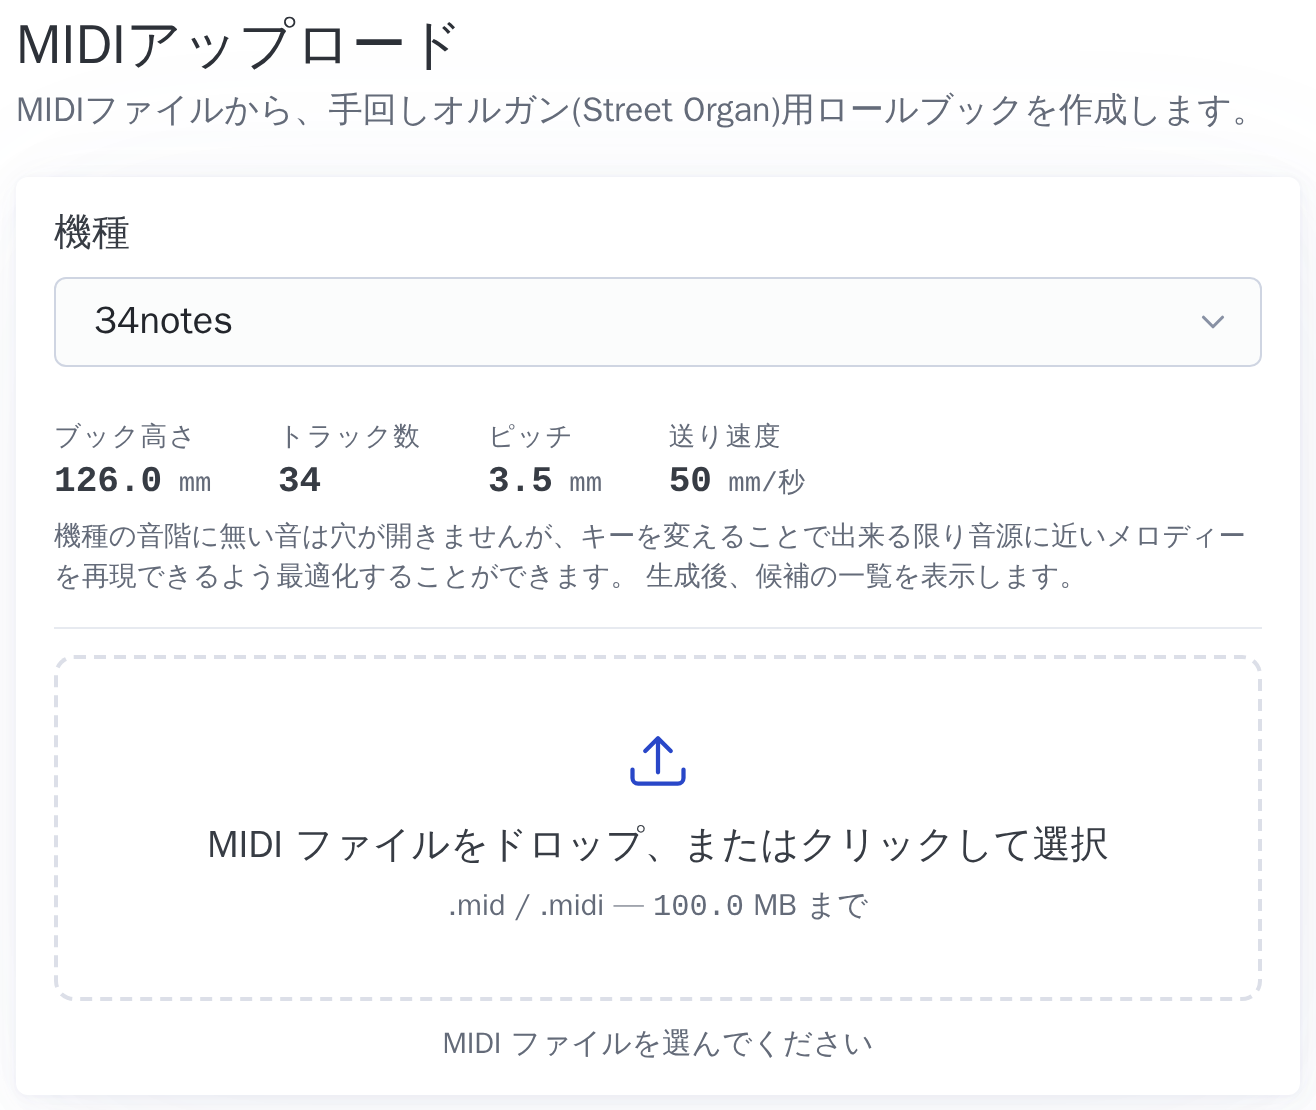
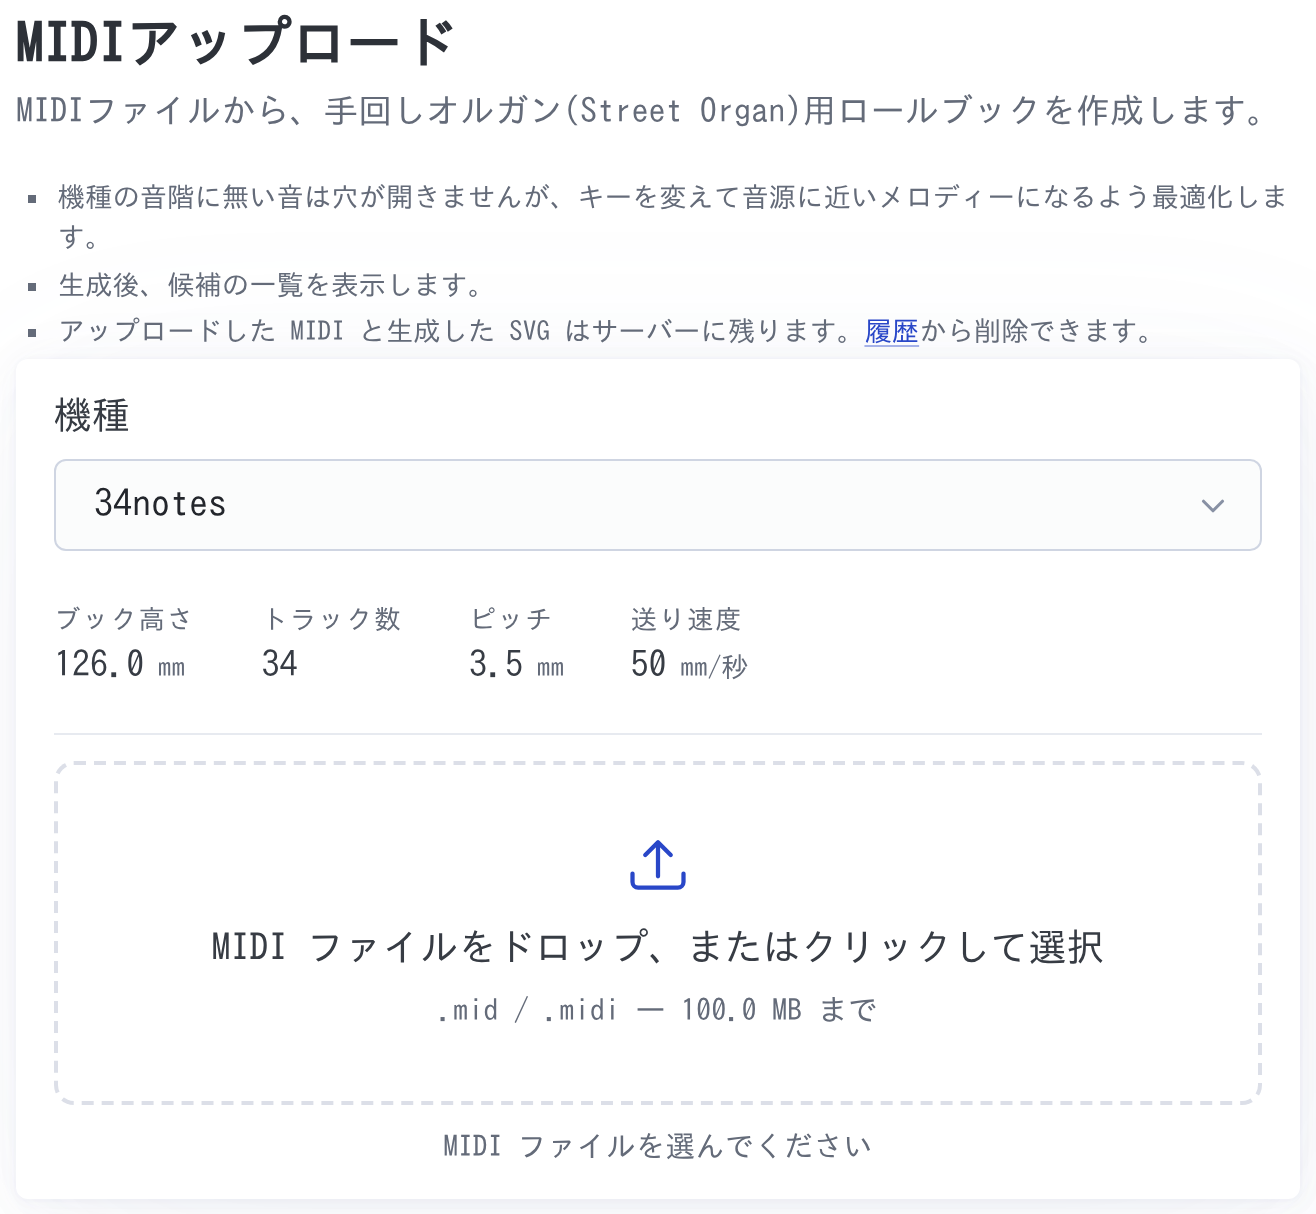
docs: 利用者向けの文書をアップロード画面に追従させる（TODO-110）
`docs/images/make_shots.py` で 5 枚を撮り直し、案内 3 点（TODO-102/103）が
入った `web-upload.png` を差し替えた。他の 4 枚は生成日時以外に差が無かった
ので旧版のままにした。

`docs/User.md` 3.2 に、画面の案内のうち 2 点を足した。「生成後、候補の一覧を
表示します」は、同じ節の後半にある「移調はここでは選ばない。作ると候補の表が
出る」と重複するので入れていない。

Claude-Session: https://claude.ai/code/session_01RqmUV3xw83ZU3zQ5LrXASe

diff --git a/archives/todo/TODO-110. 利用者向けの文書が、アップロード画面の変更に追従していない.md b/archives/todo/TODO-110. 利用者向けの文書が、アップロード画面の変更に追従していない.md
@@ -1,0 +1,76 @@
+# TODO-110. 利用者向けの文書が、アップロード画面の変更に追従していない
+
+|      | main | 担当 |
+|------|------|------|
+| 見込み | Opus 5 / effort high | web + verifier |
+| 実施 | Opus 5 / effort medium | web + verifier |
+
+| 担当 | モデル | effort | output | cache_creation | 料金の割合 |
+|------|--------|--------|--------|----------------|-----------|
+| main | Opus 5 | medium | 10,780 | 206,527 | 73% |
+| web | Sonnet 5 | medium | 2,504 | 101,839 | 21% |
+| verifier | Haiku 4.5 | 記載なし | 6,534 | 53,674 | 6% |
+| 合計 |  |  | 19,818 | 362,040 | 概算 $3.0 |
+
+- web は定義（`.claude/agents/web.md`）のまま。設計の判断が要る画面ではないので
+  Opus に上書きしなかった
+- verifier はプロジェクトに定義が無く、`~/.claude/agents/verifier.md` の
+  汎用版が効いた。定義に `effort` の行が無い（**Haiku は effort に対応しない**）
+
+分担の理由と各担当の報告は [`archives/agents/TODO-110/`](../agents/TODO-110/) にある。
+
+## きっかけ
+
+`docs/User.md` と `docs/images/*.png` は、別のマシンで TODO-106 として
+書かれたもので、写っているのは分岐前の画面。こちらでは分岐後に、TODO-102 で
+アップロード画面に保存と削除の案内を足し、TODO-103 でその説明をリードの下に
+まとめている（`webroot/templates/storgan.html`）。`web-upload.png` が
+今の画面と違っていた。
+
+## やったこと
+
+- `docs/images/make_shots.py` は無修正でそのまま動いた。5 枚を撮り直し、
+  新旧を見比べた
+- **`web-upload.png` を差し替えた。** リードの下に案内 3 点（機種の音階に
+  無い音の扱い・候補一覧の表示・サーバーに残り履歴から削除できること）が
+  新しく入っている
+- 残りの 4 枚（`web-result` / `web-transpose` / `web-history` / `web-config`）は
+  生成日時などのタイムスタンプ以外に差が無かったので、`git checkout` で旧版に
+  戻した。撮り直しで生じる無意味な差分を残さないため
+- `docs/User.md` 3.2 に、画面の案内のうち 2 点を箇条書きで足した。3 章全体を
+  実画面と突き合わせたが、他に食い違いは無かった
+
+## 決めたこと
+
+**画面の案内 3 点のうち「生成後、候補の一覧を表示します」は文書に足さない。**
+同じ節の後半に「移調はここでは選ばない。作ると候補の表が出るので、そこで
+選び直す」があり、内容が重複する。後半のほうが「ここでは選ばない」という
+要点まで含むので、そちらを残した。
+
+文書の文体は「である調」なので、画面の「ですます調」をそのまま写さない。
+文言の一致ではなく内容の一致を見る。
+
+## テスト
+
+- `uv run pytest -q` — 303 passed
+- `uv run ruff check src tests` — 問題なし
+- `uv run mypy src` — 問題なし
+- 画面の確認は `docs/images/make_shots.py`（Playwright で実サーバーを叩く）
+  が撮ったスクリーンショットで行った
+
+## 分担の振り返り
+
+- **web** は撮影・比較・`User.md` の追記まで一通りこなした。ただし画面の
+  文言をそのまま写そうとして「移調の候補の一覧」と一語足しており、
+  「画面に揃えた」という自己申告と実物が食い違っていた
+- **verifier** はその食い違いを拾い、さらに同じ節の他の記述との一貫性の
+  乱れまで指摘した。実装担当の自己申告を鵜呑みにしないよう依頼文に
+  書いたのが効いた。戻した 4 枚も開いて確かめさせた
+- 見込み（web + verifier）と実施は食い違わなかった。文書と画像だけの項目
+  だが、`make_shots.py` を走らせるという「書いたとおりに試せるもの」が
+  あったので、確認を分けた判断は TODO-017 の線に沿う
+- **次に同じ規模（文書＋スクリーンショットの追従）をやるなら、同じ 2 体で
+  よい。** ただし main が 73% を占めたので、そこを削る。今回は画像の比較
+  結果と verifier の指摘を main が読み直して判断したが、依頼文に
+  「画面の文言をそのまま写さず、内容が合っていればよい」と先に書いておけば、
+  web の段階で decided な形になり、往復が 1 回減る

diff --git a/archives/agents/TODO-110/verifier-report.md b/archives/agents/TODO-110/verifier-report.md
@@ -1,0 +1,75 @@
+# TODO-110 確認担当報告
+
+## 検証実行
+
+### テスト結果
+- `uv run pytest -q` — 303 passed, 49 deselected（終了コード 0）
+- `uv run ruff check src tests` — All checks passed（終了コード 0）
+- `uv run mypy src` — Success: no issues found（終了コード 0）
+- `uv run python docs/images/make_shots.py` — スクリーンショット再生成、正常終了
+
+### 画像の確認
+
+1. **web-upload.png**: 確認済み。3 つの案内が画像に写っている
+2. **web-result.png / web-transpose.png / web-history.png / web-config.png**: 戻された 4 枚も確認。現在の画面と一致（タイムスタンプ以外）
+
+## 見つかった問題
+
+### 1. 画面との wording 不一致（要修正）
+
+**場所**: docs/User.md 3.2 の 2 番目の箇条書き（73 行目）
+
+**実装内容**:
+```
+- 生成後、移調の候補の一覧を表示する
+```
+
+**画面実際の表現** (`webroot/templates/storgan.html` 行 31):
+```html
+<li>生成後、候補の一覧を表示します。</li>
+```
+
+**問題**: 実装報告で「画面の表現に揃え」と書かれているが、画面は「候補の一覧」で、docs は「**移調の**候補の一覧」と 「移調の」を追加している。画面には無い言葉が加わっている。
+
+### 2. 表現の一貫性不足
+
+- 3.2 の 2 番目の箇条書き（73 行）: 「生成後、**移調の**候補の一覧を表示する」
+- 3.2 の手順後（82 行）: 「作ると**候補の表**が出る」（「移調の」が無い）
+- 3.4 本文（145 行）: 「その**候補が表**になっている」（「移調の」が無い）
+
+同じものを指しているのに、3.2 の箇条書きだけ「移調の」が付いている。3.4 のタイトルが「移調の候補から選び直す」なので、そこで初めて「移調の」候補だと明らかになる構成になっている。
+
+### 3. その他の wording 差異（軽微）
+
+画面と docs の wording は以下で異なるが、意味は同じ:
+
+| 項目 | 画面 | docs |
+|---|---|---|
+| 1 番目 | 穴が開きません**が** | 穴が開かない**が** |
+| 1 番目 | 最適化します。 | 最適化する |
+| 3 番目 | 残ります。 | 残る。 |
+| 3 番目 | 削除できます。 | 削除できる |
+
+これらは助動詞や句読点の違い（である調）で、意味内容は変わらない。
+
+## 確認済み事項
+
+✓ 画像 5 枚が現在の画面と一致（タイムスタンプ除く）
+✓ テスト 3 種類（pytest / ruff / mypy）すべて通過
+✓ section 3 全体が基本的に実画面と合致（上述の wording 差異除く）
+✓ 「造語」「裸の『ノート』」などの禁止表現はなし
+✓ 「調」「オクターブ」の用語が画面向け文書に出ていない（正しく外されている）
+
+## 判断が必要な点
+
+**docs 3.2 の 2 番目の箇条書きをどうするか**:
+
+1. **案 A**: 「生成後、候補の一覧を表示する」に直す（画面に合わせる）
+   - 利点: 画面と一字一句同じになる
+   - 懸念: 「候補」だけだと読者によっては何の候補か不明確かもしれない
+
+2. **案 B**: 「生成後、移調の候補の一覧を表示する」のまま（現状）
+   - 利点: より具体的で分かりやすい
+   - 懸念: 画面表記と食い違う、実装報告の「画面の表現に揃え」という述べと矛盾
+
+3. **案 C**: 条件付きで受け入れる: 「実装報告で意図的な改変であることが確認できるなら OK」としてもよいが、報告には明記されていない

diff --git a/archives/agents/TODO-110/web-report.md b/archives/agents/TODO-110/web-report.md
@@ -1,0 +1,43 @@
+# TODO-110 web 担当報告
+
+## やったこと
+
+1. `uv run python docs/images/make_shots.py` を実行。無修正でそのまま動いた
+   （chromium 済み）。スクリプト自体の修正は不要。
+2. 旧画像 5 枚を `.../scratchpad/old-images/` に退避してから撮り直し、
+   新旧を見比べた。
+3. `docs/User.md` の 3.2 を、アップロード画面のリード下の案内 3 点
+   （TODO-102/103）に合わせて追記した。3.1〜3.8 全体も実画面（テンプレート
+   `webroot/templates/storgan.html` と、撮り直した各画像）と突き合わせたが、
+   3.2 以外に食い違いは見つからなかった。
+
+## 画像ごとの差分の有無と判断
+
+- **web-upload.png** — 差し替えた。リードの下に、機種の音階に無い音の扱い・
+  候補一覧の表示・履歴からの削除、の 3 点の案内が新しく入っていた
+  （分岐前には無かった）。
+- **web-result.png / web-transpose.png / web-history.png / web-config.png** —
+  見比べたところ、生成日時などのタイムスタンプ以外に見た目の差は無かった。
+  撮り直しで生じる無意味な差分を残さないため、`git checkout --` で旧版に
+  戻した。
+
+## `docs/User.md` の変更点
+
+3.2「ロールブックを作る」の画像の下に、画面の `<ul class="field__hint
+field__hint--list">` にある 3 項目を箇条書きで追加した（文言は画面の表現に
+揃え、用語表の「音階」「移調」「履歴」をそのまま使用）。手順 1〜3 と、
+移調・同名ファイルまわりの説明は実画面と食い違いが無かったのでそのまま。
+
+## 検証結果
+
+- `uv run pytest -q` — 303 passed
+- `uv run ruff check src tests` — 問題なし（`make_shots.py` は無修正だが
+  念のため `uv run ruff check docs/images/make_shots.py` も実行し、問題なし）
+- `uv run mypy src` — 問題なし
+- ブラウザでの確認は `make_shots.py` が撮った実画面のスクリーンショット
+  （Playwright 経由）で行った。コンソールエラーの確認は同スクリプトの
+  実行ログで確認済み（エラー無し）。
+
+## 残る懸念
+
+特になし。

diff --git a/archives/agents/TODO-110/README.md b/archives/agents/TODO-110/README.md
@@ -1,0 +1,25 @@
+# TODO-110 の分担
+
+`docs/User.md` と `docs/images/*.png` を今の画面に追従させる項目。
+
+| 担当 | 定義 | 受け持ち | 報告 |
+|---|---|---|---|
+| web | `.claude/agents/web.md`（Sonnet 5 / effort medium） | `make_shots.py` でのスクリーンショット撮り直し、新旧の比較、`docs/User.md` 3 章の追従 | [web-report.md](web-report.md) |
+| verifier | `~/.claude/agents/verifier.md`（Haiku 4.5） | 撮った画像とテンプレートの突き合わせ、戻した 4 枚の再確認、`User.md` の記述と実画面の一致、pytest / ruff / mypy | [verifier-report.md](verifier-report.md) |
+
+## この分担にした理由
+
+- 文書と画像だけの項目だが、`docs/images/make_shots.py` を走らせるという
+  「書いたとおりに試せるもの」があるので、確認を別の担当に分けた（TODO-017）。
+  main が確認してよい例外（確かめる中身が書式だけ）にはあたらない
+- 画面そのものは変えないので、レビューの担当は入れていない
+- web は画面側を受け持つ既存の定義でそのまま足りたため、モデルは上書きしなかった
+- verifier には「実装担当の自己申告を鵜呑みにせず、画像を実際に開いて確かめる」
+  ことと、「修正はせず報告だけ」を依頼文に明記した
+
+## 結果
+
+verifier が、web の「画面の表現に揃えた」という申告と実物の食い違い
+（「候補の一覧」→「移調の候補の一覧」）を拾った。main が判断し、
+重複する箇条書きごと外した。詳細は
+[`archives/todo/TODO-110. 利用者向けの文書が、アップロード画面の変更に追従していない.md`](../../todo/TODO-110.%20利用者向けの文書が、アップロード画面の変更に追従していない.md)。

diff --git a/docs/User.md b/docs/User.md
@@ -68,6 +68,10 @@ URL だけの行が出るので、そこを開く。
 
 ![MIDIアップロードの画面](images/web-upload.png)
 
+- 機種の音階に無い音は穴が開かないが、キーを変えて音源に近いメロディーに
+  なるよう最適化する
+- アップロードした MIDI と生成した SVG はサーバーに残る。履歴から削除できる
+
 1. **機種を選ぶ。** 選ぶと、その機種のブック高さ・トラック数・ピッチ・
    送り速度が下に出る。作ってから寸法違いに気づかずに済む
 2. **MIDI ファイルを選ぶ。** 枠にドロップするか、枠を押してファイルを選ぶ。
